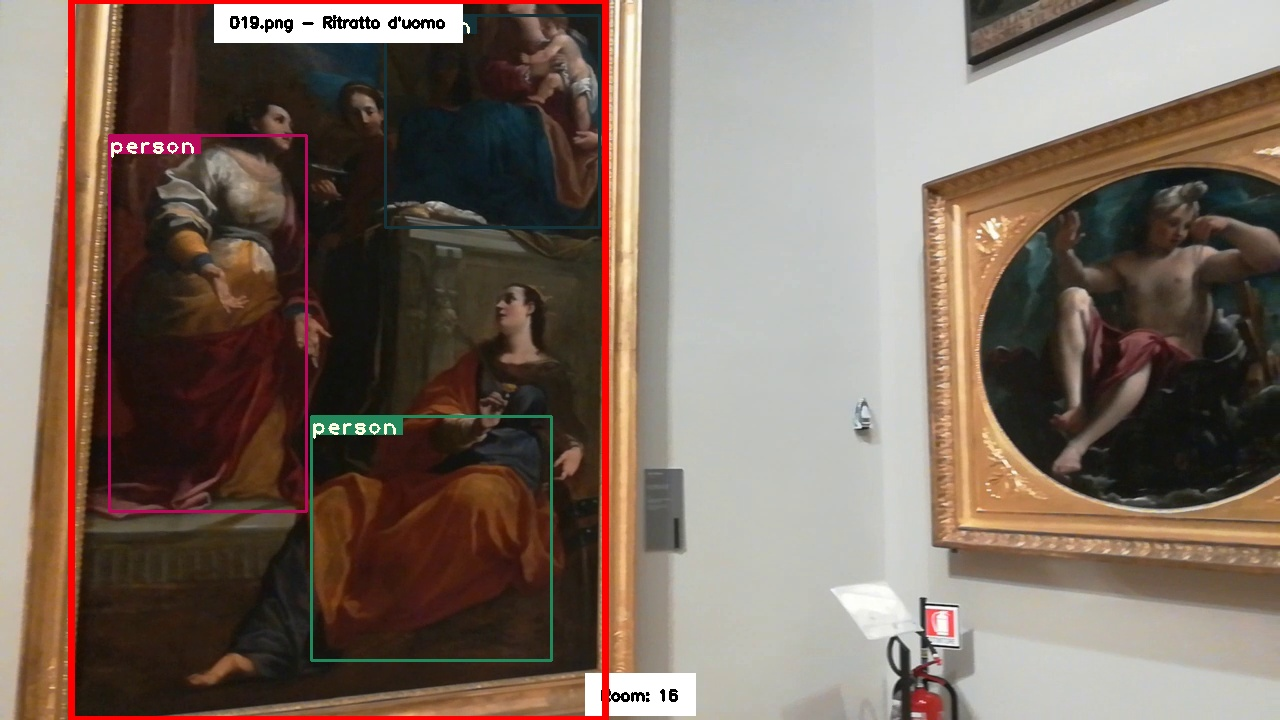
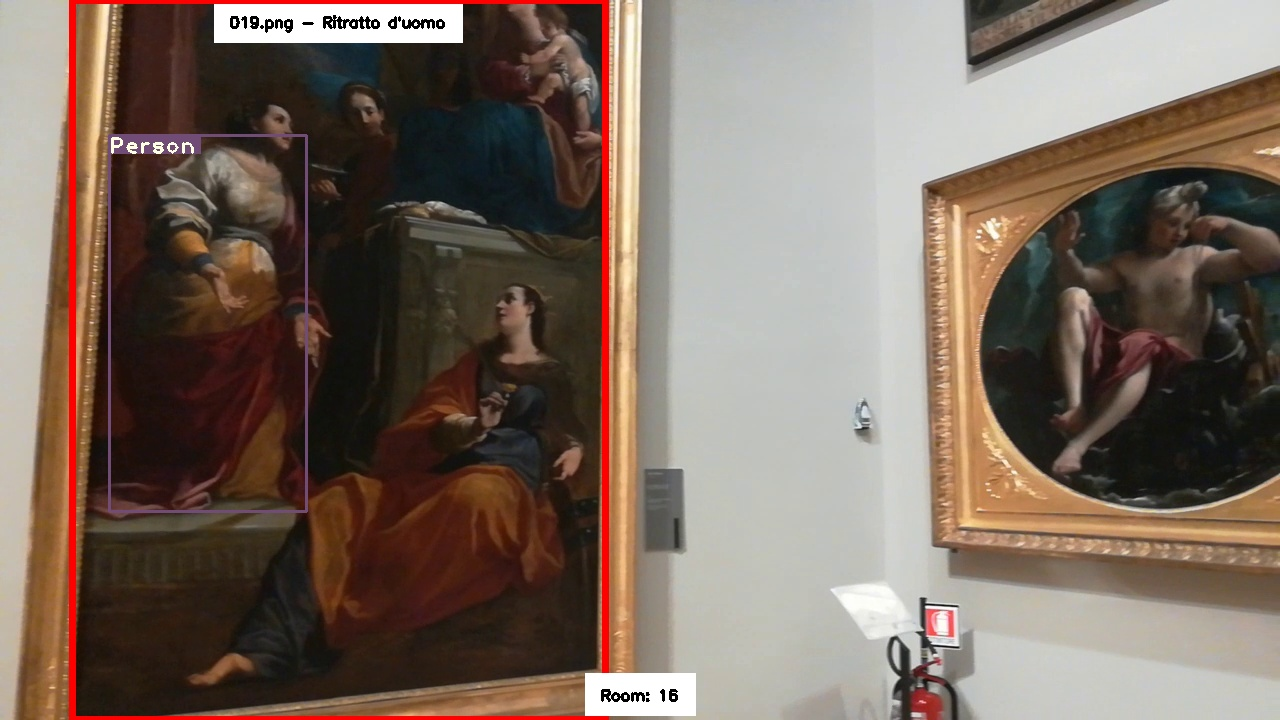
[CODE] fixed parameters and implemented the cleaning of people bounding boxes

diff --git a/code/image_processing.py b/code/image_processing.py
@@ -3,7 +3,7 @@ from yolo.people_detection import PeopleDetection
 from model.painting import Painting
 import pandas as pd
 from utils import print_next_step, step_generator, show_image, draw_lines, draw_corners, order_points, translate_points, \
-    calculate_polygon_area
+    calculate_polygon_area, draw_people_bounding_box
 import cv2
 import numpy as np
 import os
@@ -1193,9 +1193,9 @@ def recognize_painting(img, mask, contours, paintings_db):
                 corner_quality=corner_quality,
                 min_distance=min_distance
             )
-            painting_corners = np.zeros((sub_img.shape[0], sub_img.shape[1]), dtype=np.uint8)
-            draw_corners(painting_corners, corners)
-            show_image('painting_corners', painting_corners)
+            # painting_corners = np.zeros((sub_img.shape[0], sub_img.shape[1]), dtype=np.uint8)
+            # draw_corners(painting_corners, corners)
+            # show_image('painting_corners', painting_corners)
 
             # Checking corners to avoid problem (read function descr. for info)
             min_percentage = 0.90  # 0.8 or 0.85
@@ -1298,40 +1298,6 @@ def draw_paintings_info(img, paintings):
     font_color = (0, 0, 0)
     line_thickness = 2
 
-    # Choose the room of the actual video frame by majority
-    possible_rooms = [p.room for p in paintings if p.room is not None]
-    if len(possible_rooms) > 0:
-        major_room = max(possible_rooms, key=possible_rooms.count)
-        room = f"Room: {major_room}"
-
-        # Draw the room of the painting
-        font_color = (0, 0, 0)
-        room_width, room_height = cv2.getTextSize(
-            room,
-            font,
-            font_scale,
-            line_thickness
-        )[0]
-        xb_room = int(w / 2 - room_width / 2)
-        yb_room = int(h - 20)
-
-        bottom_left_corner_of_room = (xb_room, yb_room)
-
-        cv2.rectangle(
-            img_copy,
-            (xb_room - 15, yb_room - room_height - 15),
-            (xb_room + room_width + 15, h - 5),
-            (255, 255, 255),
-            -1
-        )
-        cv2.putText(img_copy,
-                    room,
-                    bottom_left_corner_of_room,
-                    font,
-                    font_scale,
-                    font_color,
-                    line_thickness)
-
     for painting in paintings:
         corner_points = np.int32(painting.corners)
 
@@ -1392,7 +1358,87 @@ def draw_paintings_info(img, paintings):
 
         # cv2.waitKey(0)
 
+    # Choose the room of the actual video frame by majority
+    possible_rooms = [p.room for p in paintings if p.room is not None]
+    if len(possible_rooms) > 0:
+        major_room = max(possible_rooms, key=possible_rooms.count)
+        room = f"Room: {major_room}"
+
+        # Draw the room of the painting
+        font_color = (0, 0, 0)
+        room_width, room_height = cv2.getTextSize(
+            room,
+            font,
+            font_scale,
+            line_thickness
+        )[0]
+        xb_room = int(w / 2 - room_width / 2)
+        yb_room = int(h - 20)
+
+        bottom_left_corner_of_room = (xb_room, yb_room)
+
+        cv2.rectangle(
+            img_copy,
+            (xb_room - 15, yb_room - room_height - 15),
+            (xb_room + room_width + 15, h - 5),
+            (255, 255, 255),
+            -1
+        )
+        cv2.putText(img_copy,
+                    room,
+                    bottom_left_corner_of_room,
+                    font,
+                    font_scale,
+                    font_color,
+                    line_thickness)
+
     return img_copy
+
+
+def clean_people_bounding_box(img, paintings, people_bounding_boxes, max_percentage=0.9):
+    """
+    Remove all the people bounding boxes which overlap more than
+    `max_percentage` with one of the detected paintings.
+
+    Parameters
+    ----------
+    img: ndarray
+        the input image. Necessary to show the size of the mask to create.
+    paintings: list
+        list of painting detected
+    people_bounding_boxes: list
+        list of people bounding boxes
+    max_percentage: float
+        maximum percentage of overlap between the bounding box and one of
+        the paintings
+
+    Returns
+    -------
+    list
+        the list of the valid people bounding boxes
+    """
+
+    h_img = img.shape[0]
+    w_img = img.shape[1]
+    for painting in paintings:
+        for box in people_bounding_boxes:
+            x, y, w, h = box
+            corner_points = np.int32(painting.corners)
+
+            mask = np.zeros((h_img, w_img), dtype=np.uint8)
+            # show_image("test_1", mask)
+            mask[y:y + h, x:x + w] = 255
+            # show_image("test_2", mask)
+            cv2.fillPoly(mask, pts=[corner_points], color=0)
+            # show_image("test_3", mask)
+
+            area_box = w * h
+            white_pixels = np.sum(mask == 255)
+            # If more than the max_percentage of the box is inside the
+            # painting, than I will not consider this box as valid
+            if area_box - white_pixels >= area_box * max_percentage:
+                people_bounding_boxes.remove(box)
+    return people_bounding_boxes
 
 
 if __name__ == '__main__':
@@ -1426,6 +1472,8 @@ if __name__ == '__main__':
     # videos_dir_name = '009'
     # filename = "IMG_2646_0018.jpg"  # wall inverted and cutted painting
     # filename = "VID_20180529_113001_0001.jpg"
+    # filename = "VID_20180529_112553_0003.jpg"  # painting with error people detection
+    # filename = "VID_20180529_112553_0000.jpg"
 
     painting_db_path = "./paintings_db"
     painting_data_path = "./data/data.csv"
@@ -1482,7 +1530,7 @@ if __name__ == '__main__':
             print_next_step(generator, "Mean Shift Segmentation:")
             start_time = time.time()
             spatial_radius = 7  # 8 # 5 #8 or 7
-            color_radius = 15  # 40 #40 #35 or 15
+            color_radius = 13  # 40 #40 #35 or 15
             maximum_pyramid_level = 1  # 1
             img_mss = mean_shift_segmentation(img, spatial_radius, color_radius, maximum_pyramid_level)
             exe_time_mean_shift_segmentation = time.time() - start_time
@@ -1667,12 +1715,23 @@ if __name__ == '__main__':
                 # ----------------------------
                 print_next_step(generator, "YOLO People Detection:")
                 start_time = time.time()
-                img_people_detected, people_in_frame, people_bounding_boxes = people_detector.run(img_original)
+                img_people_detected, people_in_frame, people_bounding_boxes = people_detector.run(img_original.copy())
+                show_image('people_before_cleaning', img_people_detected, height=405, width=720)
+                # Step BOX: Clean bounding box to avoid overlap with painting
+                max_percentage = 0.9
+                people_bounding_boxes = clean_people_bounding_box(
+                    img_original,
+                    paintings_recognized,
+                    people_bounding_boxes,
+                    max_percentage=max_percentage
+                )
+                img_people_detected = draw_people_bounding_box(img_original, people_bounding_boxes)
                 # img_people_detected = img_original
+
                 exe_time_people_detection = time.time() - start_time
                 total_time += exe_time_people_detection
                 print("\ttime: {:.3f} s".format(exe_time_people_detection))
-                show_image('people_detection', img_people_detected, height=405, width=720)
+                show_image('people_after_cleaning', img_people_detected, height=405, width=720)
 
                 # Step 18: Draw information about Paintings found
                 # ----------------------------

diff --git a/code/utils.py b/code/utils.py
@@ -2,6 +2,8 @@ import cv2
 import numpy as np
 from scipy.spatial import distance as dist
 import os
+import pickle as pkl
+import random
 
 
 def step_generator():
@@ -17,6 +19,28 @@ def print_next_step(generator, title):
     print(f"\n# Step {step}: {title}")
     # print("-" * 30)
     # pass
+
+
+def draw_people_bounding_box(img, people_bounding_boxes):
+    """
+    Draws the bounding box of people detected in the image.
+    """
+    colors = pkl.load(open("yolo/pallete", "rb"))
+    for box in people_bounding_boxes:
+        x, y, w, h = box
+
+        label = "Person"
+        color = random.choice(colors)
+        cv2.rectangle(img, (x, y), (x + w, y + h), color, 2)
+
+        font_scale = 1.5
+        line_thickness = 2
+        t_size = cv2.getTextSize(label, cv2.FONT_HERSHEY_PLAIN, font_scale, line_thickness)[0]
+        c2 = x + t_size[0] + 3, y + t_size[1] + 4
+        cv2.rectangle(img, (x, y), c2, color, -1)
+        cv2.putText(img, label, (x, y + t_size[1] + 4), cv2.FONT_HERSHEY_PLAIN, font_scale, [225, 255, 255],
+                    line_thickness)
+    return img
 
 
 def show_image(title, img, height=None, width=None, wait_key=True):
